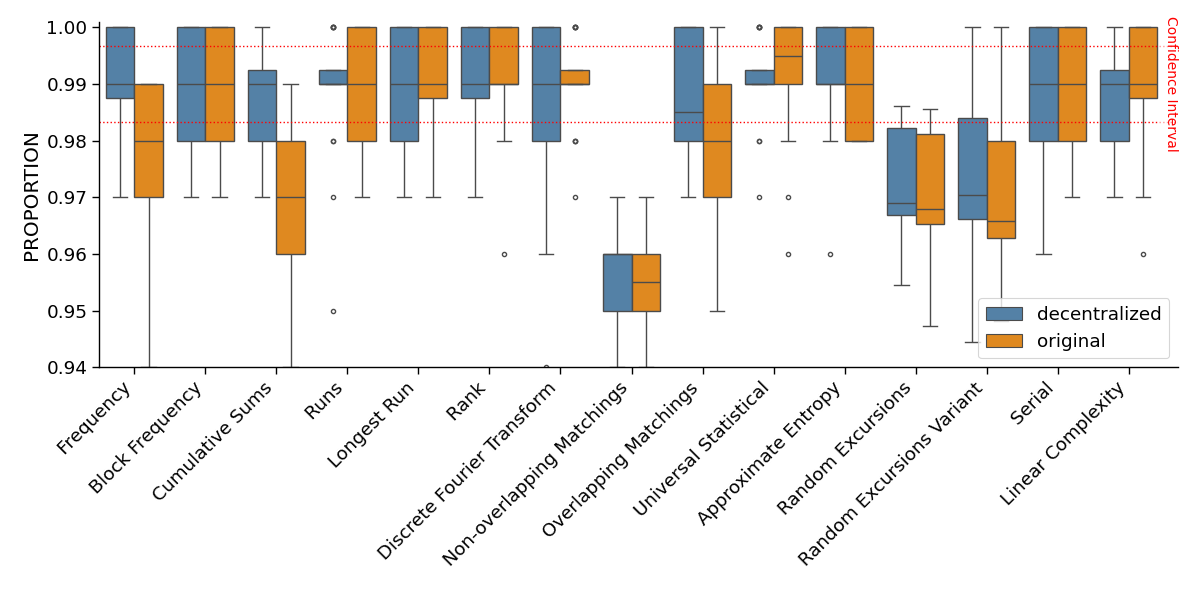
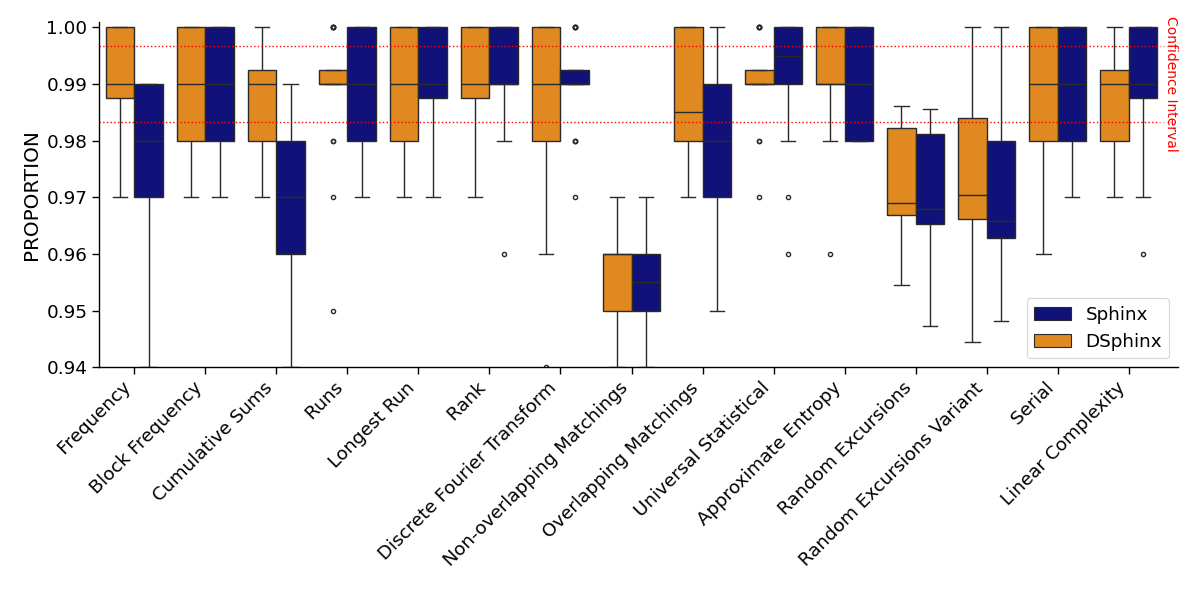
update graphs (grayscale lisibility)

diff --git a/src/experiments/analyze_results.py b/src/experiments/analyze_results.py
@@ -87,7 +87,7 @@ def gather_results(data_directory):
     return pd.concat([extract_data(file) for file in result_files])
 
 
-def plot_pvalue(df, colors={'decentralized': 'steelblue', 'original': 'darkorange'}):
+def plot_pvalue(df, colors={'DSphinx': 'steelblue', 'Sphinx': 'darkorange'}):
     plt.figure(figsize=(12, 6))
 
     # Boxplot
@@ -114,7 +114,7 @@ def plot_pvalue(df, colors={'decentralized': 'steelblue', 'original': 'darkorang
     # Create custom handle for threshold line
     threshold_line = Line2D([0], [0], color='red', linestyle=':', linewidth=1)
     # Add all handles to legend
-    plt.legend(handles + [threshold_line], labels + ['threshold'], loc='upper center')
+    plt.legend(handles[::-1] + [threshold_line], labels[::-1] + ['threshold'], loc='upper center')
 
 
     sns.despine()
@@ -122,7 +122,7 @@ def plot_pvalue(df, colors={'decentralized': 'steelblue', 'original': 'darkorang
     plt.savefig('src/experiments/results/p-values-of-p-values.png')
     plt.show()
 
-def plot_hist_pvalues(df, colors={'decentralized': 'steelblue', 'original': 'darkorange'}):
+def plot_hist_pvalues(df, colors={'DSphinx': 'steelblue', 'Sphinx': 'darkorange'}):
     fig, ax = plt.subplots(5, 3, figsize=(15, 10), sharex=True, sharey=True)
     fig.subplots_adjust(hspace=0.1, wspace=0.05)
 
@@ -173,16 +173,16 @@ def plot_hist_pvalues(df, colors={'decentralized': 'steelblue', 'original': 'dar
     # Create a common legend
     handles, labels = ax[0, 0].get_legend_handles_labels()
     # ax[0,0].legend(handles, labels, loc='upper center')
-    d = Patch(facecolor=colors['decentralized'], edgecolor=colors['decentralized'], label='decentralized', alpha=.3)
-    e = Patch(facecolor=colors['original'], edgecolor=colors['original'], label='original', alpha=0.3, linewidth=1.5)
+    d = Patch(facecolor=colors['DSphinx'], edgecolor=colors['DSphinx'], label='DSphinx', alpha=.3)
+    e = Patch(facecolor=colors['Sphinx'], edgecolor=colors['Sphinx'], label='Sphinx', alpha=0.3, linewidth=1.5)
 
-    plt.legend(handles=[d,e], loc='lower right', prop={'size': 17}, labelspacing=0.3, borderpad=0.3, borderaxespad=0.5)  
+    plt.legend(handles=[e,d], loc='lower right', prop={'size': 17}, labelspacing=0.3, borderpad=0.3, borderaxespad=0.5)  
 
     plt.savefig('src/experiments/results/hist_p-values.png')
     plt.show()
     plt.close()
    
-def plot_proportion_box(df, colors={'decentralized': 'steelblue', 'original': 'darkorange'}):
+def plot_proportion_box(df, colors={'DSphinx': 'steelblue', 'Sphinx': 'darkorange'}):
     plt.figure(figsize=(12, 6))
 
     df = df[['TEST', 'Algo', 'PROPORTION']]
@@ -213,7 +213,8 @@ def plot_proportion_box(df, colors={'decentralized': 'steelblue', 'original': 'd
         rotation=-90,
         bbox=dict(facecolor='white', alpha=0.6, edgecolor='none')
     )
-    plt.legend(loc='lower right')
+    handles, labels = plt.gca().get_legend_handles_labels()
+    plt.legend(handles[::-1], labels[::-1], loc='lower right')
 
     sns.despine()
     plt.tight_layout()
@@ -221,14 +222,15 @@ def plot_proportion_box(df, colors={'decentralized': 'steelblue', 'original': 'd
     plt.show()
     plt.close()
 
-def plot_proportion_dot(df, colors={'decentralized': 'steelblue', 'original': 'darkorange'}):
+def plot_proportion_dot(df, colors={'DSphinx': 'steelblue', 'Sphinx': 'darkorange'}):
     plt.figure(figsize=(12, 6))
 
     d = df[['TEST','PROPORTION','Algo']].groupby(['TEST','Algo']).mean()
     d = d.reset_index()
-    g = sns.relplot(data=d, x='TEST', y='PROPORTION', hue='Algo', palette=colors, alpha=0.6, s=40)
+    g = sns.relplot(data=d, x='TEST', y='PROPORTION', hue='Algo', palette=colors, alpha=.6, s=40)
     g._legend.remove()
-    plt.legend(loc='lower right', fontsize=12)
+    handles, labels = plt.gca().get_legend_handles_labels()
+    plt.legend(handles[::-1], labels[::-1], loc='lower right', fontsize=12)
     plt.xticks(rotation=45, ha='right')
     plt.xlabel('')
     plt.ylabel('Proportion')
@@ -263,7 +265,7 @@ def plot_proportion_dot(df, colors={'decentralized': 'steelblue', 'original': 'd
     plt.show()
     plt.close()
 
-def plot_chisquare(df, colors={'decentralized': 'steelblue', 'original': 'darkorange'}):
+def plot_chisquare(df, colors={'DSphinx': 'steelblue', 'Sphinx': 'darkorange'}):
 
     plt.figure(figsize=(8, 5)) 
     size = len(df)/30
@@ -277,7 +279,7 @@ def plot_chisquare(df, colors={'decentralized': 'steelblue', 'original': 'darkor
         resultat.append([test, algo, chi_square[0], chi_square[1]])
         
     df = pd.DataFrame(resultat, columns=['TEST', 'Algo', 'STATISTIC', 'P-VALUE'])
-    ax = sns.barplot(data=df, x='TEST', y='P-VALUE', hue='Algo', palette=colors, alpha=0.7, gap=0, width=0.85)
+    ax = sns.barplot(data=df, x='TEST', y='P-VALUE', hue='Algo', palette=colors, alpha=.6, gap=0, width=0.85)
     plt.axhline(y=0.0001, color='red', linestyle=':', linewidth=1)
     plt.xticks(rotation=45, ha='right')
     plt.ylabel('P-value')
@@ -286,7 +288,7 @@ def plot_chisquare(df, colors={'decentralized': 'steelblue', 'original': 'darkor
 
     handles, labels = plt.gca().get_legend_handles_labels()
     threshold_line = Line2D([0], [0], color='red', linestyle=':', linewidth=1)
-    plt.legend(handles + [threshold_line], labels + ['threshold'], loc='lower right', fontsize=12)
+    plt.legend(handles[::-1] + [threshold_line], labels[::-1] + ['threshold'], loc='lower right', fontsize=12)
 
     sns.despine()
     plt.tight_layout()
@@ -296,8 +298,10 @@ def plot_chisquare(df, colors={'decentralized': 'steelblue', 'original': 'darkor
     plt.close()
 
 def plot_results(data_directory = 'src/experiments/data/'):
-    colors = {'decentralized': 'steelblue', 'original': 'darkorange'}
     df = gather_results(data_directory)
+    df = df.replace({'Algo': 'decentralized'}, 'DSphinx')
+    df = df.replace({'Algo': 'original'}, 'Sphinx')
+    colors = {'DSphinx': 'darkorange', 'Sphinx': 'darkblue'}
     plot_pvalue(df, colors)
     plot_hist_pvalues(df, colors)
     plot_proportion_box(df, colors)

diff --git a/report/Texts/6.Implementation.tex b/report/Texts/6.Implementation.tex
@@ -117,7 +117,7 @@ Given the established security of the original Sphinx protocol, and considering 
     \scalebox{.92}{
     \begin{tabular}{|l|cc|cc|}
     \toprule
-                                    & \multicolumn{2}{c|}{\textbf{Decentralized}}   & \multicolumn{2}{c|}{\textbf{Original}}\\
+                                    & \multicolumn{2}{c|}{\textbf{DSphinx}}   & \multicolumn{2}{c|}{\textbf{Sphinx}}\\
     \cline{2-5}\vspace*{-2mm}\\
                                     % & \textbf{\footnotesize Success}    & \textbf{\footnotesize}          & \textbf{\footnotesize Success} & \textbf{\footnotesize} \vspace*{-0.5mm} \\
     \textbf{Statistical Test}       & \textbf{\footnotesize Rate}   & \textbf{\footnotesize Uniform}   & \textbf{\footnotesize Rate}    & \textbf{\footnotesize Uniform} \\

diff --git a/report/schema/chunkwise_encryption.tex b/report/schema/chunkwise_encryption.tex
@@ -140,7 +140,7 @@
     \node[between=n3 and s21] (middleTop) {};
     \node[between=n2 and s11] (middleBot){};
     \node (bot) at (n1.south) {};
-    \node (left) at ($(xor2.west) - (\width/3, 0)$) {};
+    \node (left) at ($(xor2.west) - (\width/1, 0)$) {};
     \node (right) at ($(zero1.east) + (0.1*\width, 0)$) {};
 
     \draw[densely dotted] (middleTop -| left) -- (middleTop -| right) {};

diff --git a/todo.md b/todo.md
@@ -15,17 +15,20 @@
 
 # Todo (thursday)
 
-- Style: subsection 4 "[Party] - [Function]" (e.g. 4.1. Setup - Independant generators, 4.2. Client - Additive shares, 4.3. STTP - Partial header, 4.4. Decryption and forward)
-- Propose mitigiation for collusion vulnerability
+- Propose mitigiation for collusion vulnerability [ATTENTION]
 
-- Reformulation for adversary advantage. Don't like the lmbda notation
+# TODO
+- Reformulation for adversary advantage. Don't like the lambda notation [IMPORTANT]
 - Anonymous github and cleaning code (e.g. client)
 - Developper Elligator + ref
+- Faire ref à la Figure 4 (mixnode) [IMPORTANT]
 
-- Faire ref à la Figure 4 (mixnode)
+# Accesibility
 - Section 4 (and 5): Reread this section and check for parts that could be unclear to add extra explanations.
+- Pseudocode [IMPORTANT]
 
-- Reformulate section 1 paragraph (see todo)
+# General
 - Try to avoid "mixnet" if not pertinent (e.g.)
 - use the nomination of DSphinx (change figures as well)
 - Layout: improve spacing and mise en page
+- Equation format (x) and figure
